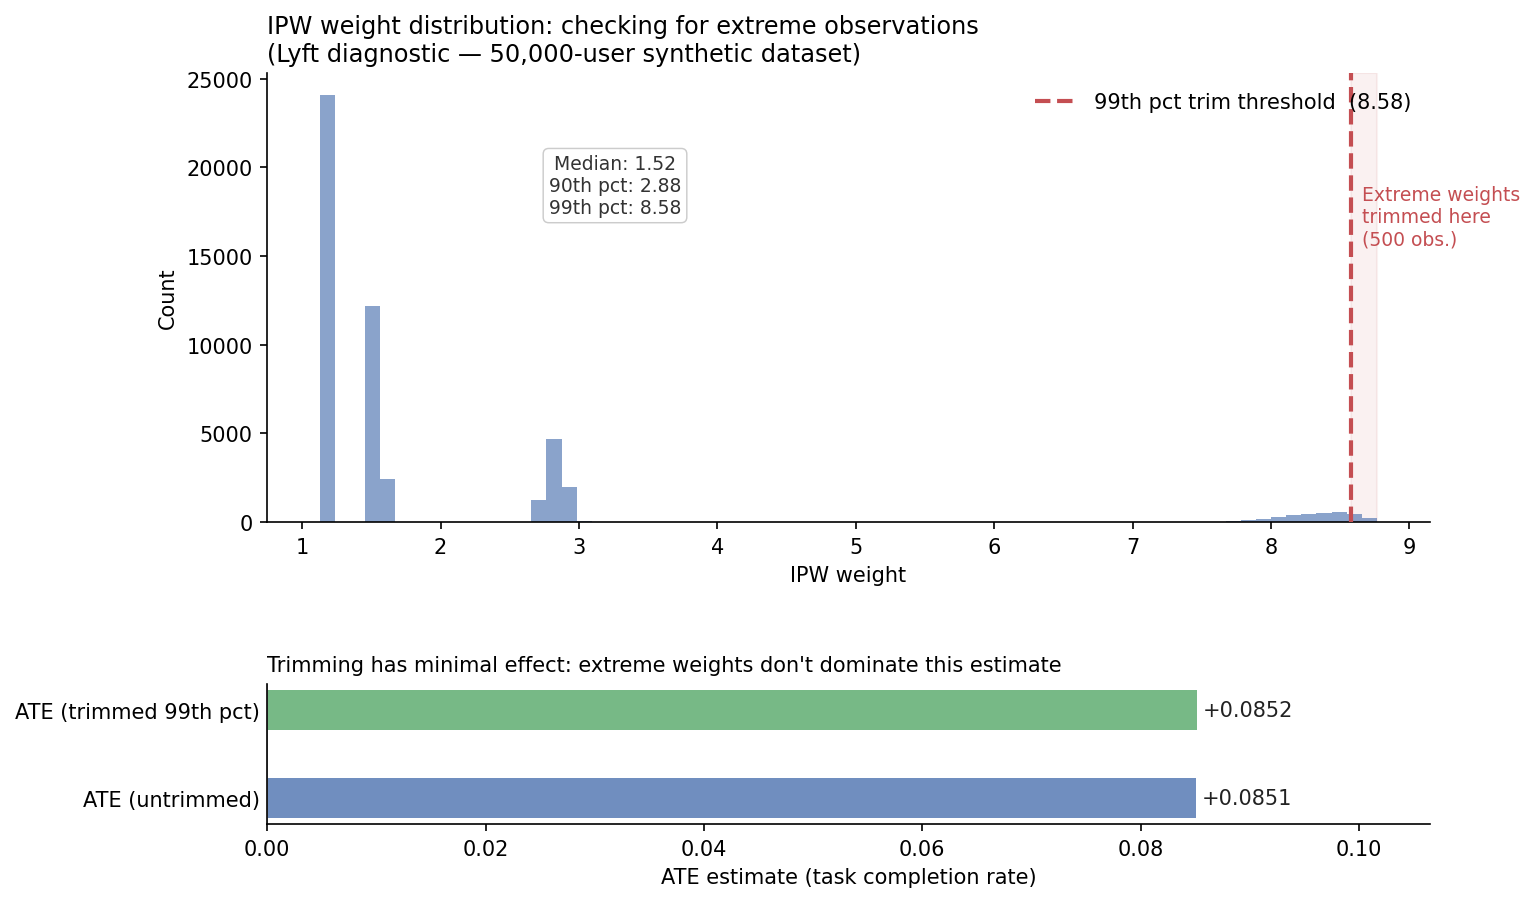
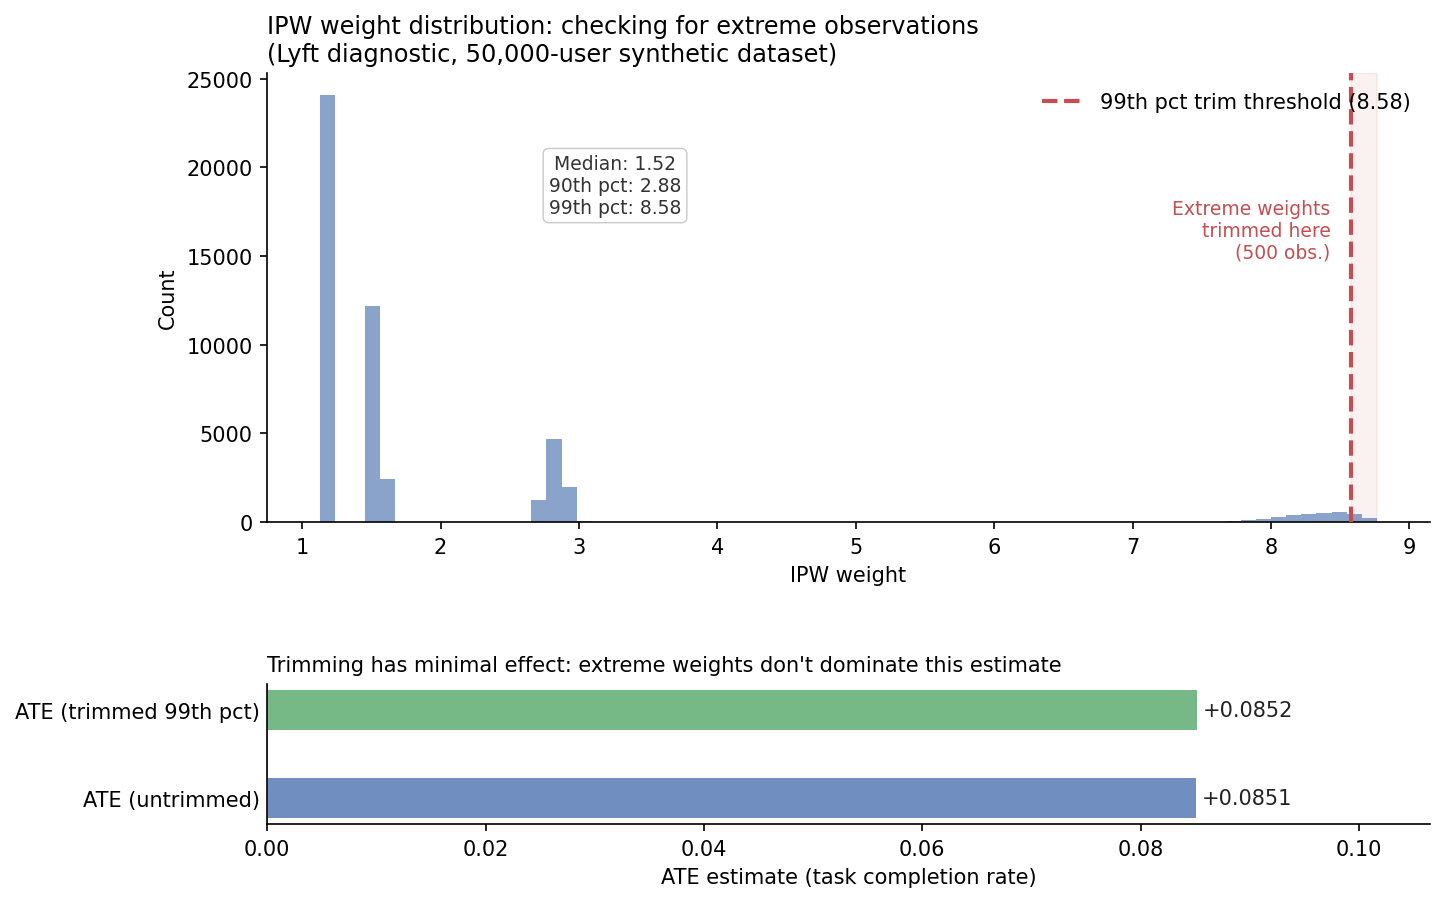
13_case_studies: fix chart arrows and weight distribution title
Figure 1: increased arrow mutation_scale and lw so arrowheads are clearly
visible between scenario, assumption, and method boxes; widened column gaps.

Figure 2: replaced em-dash with comma in subtitle; fixed double-space in
legend label; repositioned "Extreme weights" annotation to prevent right-edge
clipping.

diff --git a/13_case_studies/generate_case_studies_charts.py b/13_case_studies/generate_case_studies_charts.py
@@ -71,9 +71,9 @@ def make_figure_1_conceptual() -> None:
     ax.set_ylim(-0.5, len(rows) * 1.3 + 0.2)
     ax.axis("off")
 
-    col_x = [0.15, 3.85, 7.55, 10.7]
+    col_x = [0.15, 4.00, 7.70, 10.85]
     col_labels = ["Deployment scenario", "Identifying assumption", "Causal method", "Team"]
-    col_widths = [3.5, 3.5, 3.0, 1.2]
+    col_widths = [3.55, 3.40, 2.90, 1.1]
 
     # Header row
     for cx, label, cw in zip(col_x, col_labels, col_widths):
@@ -106,8 +106,8 @@ def make_figure_1_conceptual() -> None:
 
         # Arrow → assumption
         ax.annotate(
-            "", xy=(col_x[1], y + 0.525), xytext=(col_x[0] + col_widths[0] + 0.04, y + 0.525),
-            arrowprops=dict(arrowstyle="-|>", color=color, lw=1.3),
+            "", xy=(col_x[1] + 0.05, y + 0.525), xytext=(col_x[0] + col_widths[0] + 0.06, y + 0.525),
+            arrowprops=dict(arrowstyle="-|>", color=color, lw=2.0, mutation_scale=18),
         )
 
         # Assumption box (middle-left)
@@ -126,8 +126,8 @@ def make_figure_1_conceptual() -> None:
 
         # Arrow → method
         ax.annotate(
-            "", xy=(col_x[2], y + 0.525), xytext=(col_x[1] + col_widths[1] + 0.04, y + 0.525),
-            arrowprops=dict(arrowstyle="-|>", color=color, lw=1.3),
+            "", xy=(col_x[2] + 0.05, y + 0.525), xytext=(col_x[1] + col_widths[1] + 0.06, y + 0.525),
+            arrowprops=dict(arrowstyle="-|>", color=color, lw=2.0, mutation_scale=18),
         )
 
         # Method box (middle-right)
@@ -216,7 +216,7 @@ def make_figure_2_data_driven() -> None:
     )
     ax_top.axvline(
         trim_threshold, color=trim_color, lw=2.0, ls="--",
-        label=f"99th pct trim threshold  ({trim_threshold:.2f})",
+        label=f"99th pct trim threshold ({trim_threshold:.2f})",
         zorder=3,
     )
 
@@ -225,9 +225,9 @@ def make_figure_2_data_driven() -> None:
     # Shade extreme weights region
     ax_top.axvspan(trim_threshold, df.ipw.max(), color=trim_color, alpha=0.08, zorder=0)
     ax_top.text(
-        trim_threshold + 0.08, y_max * 0.75,
+        trim_threshold - 0.15, y_max * 0.72,
         f"Extreme weights\ntrimmed here\n({(df.ipw > trim_threshold).sum():,} obs.)",
-        ha="left", va="top", fontsize=9.0, color=trim_color,
+        ha="right", va="top", fontsize=9.0, color=trim_color,
     )
 
     # Stats annotation in the near-zero region (bulk of the distribution)
@@ -242,7 +242,7 @@ def make_figure_2_data_driven() -> None:
     ax_top.set_ylabel("Count")
     ax_top.set_title(
         "IPW weight distribution: checking for extreme observations\n"
-        "(Lyft diagnostic — 50,000-user synthetic dataset)",
+        "(Lyft diagnostic, 50,000-user synthetic dataset)",
         fontsize=11.5, loc="left",
     )
     ax_top.legend(frameon=False, fontsize=10, loc="upper right")
